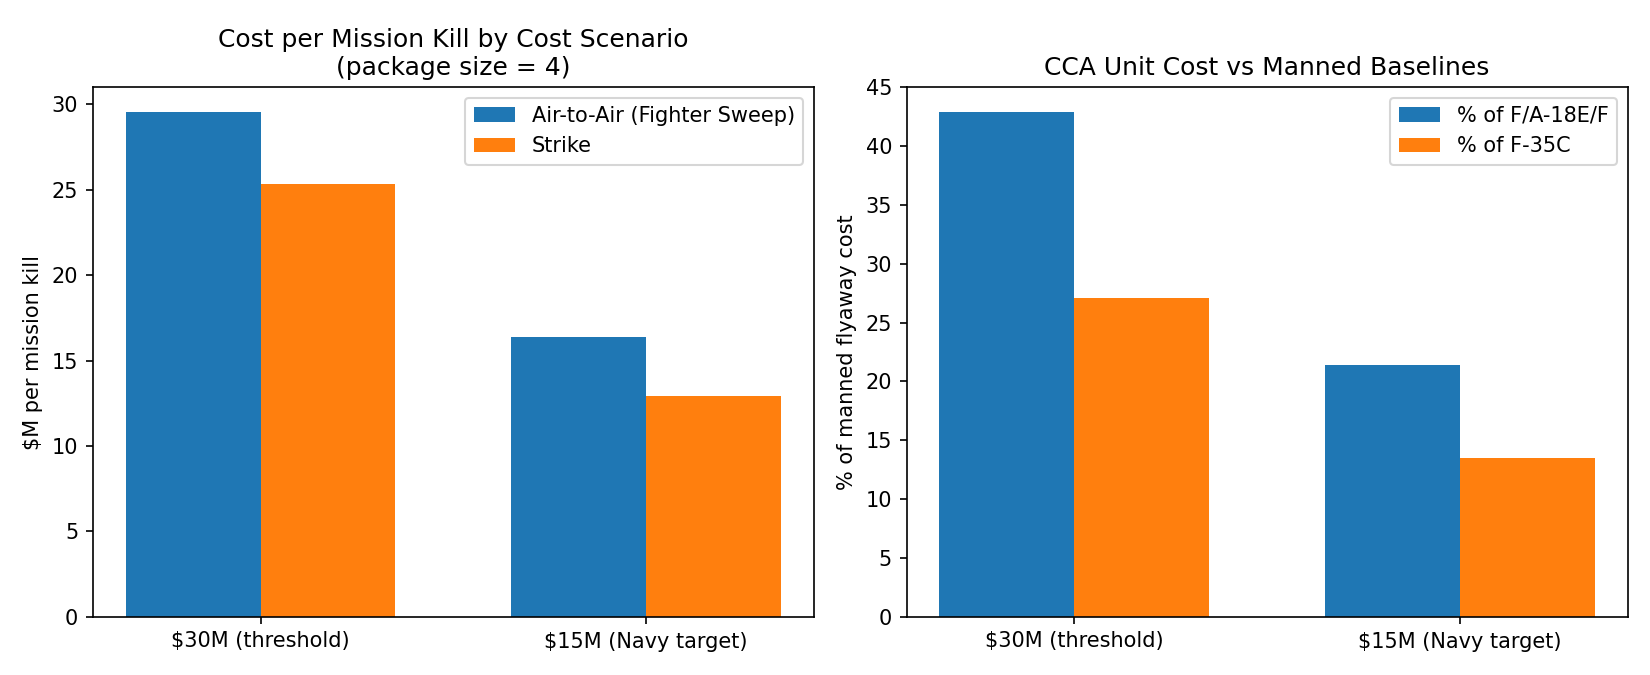
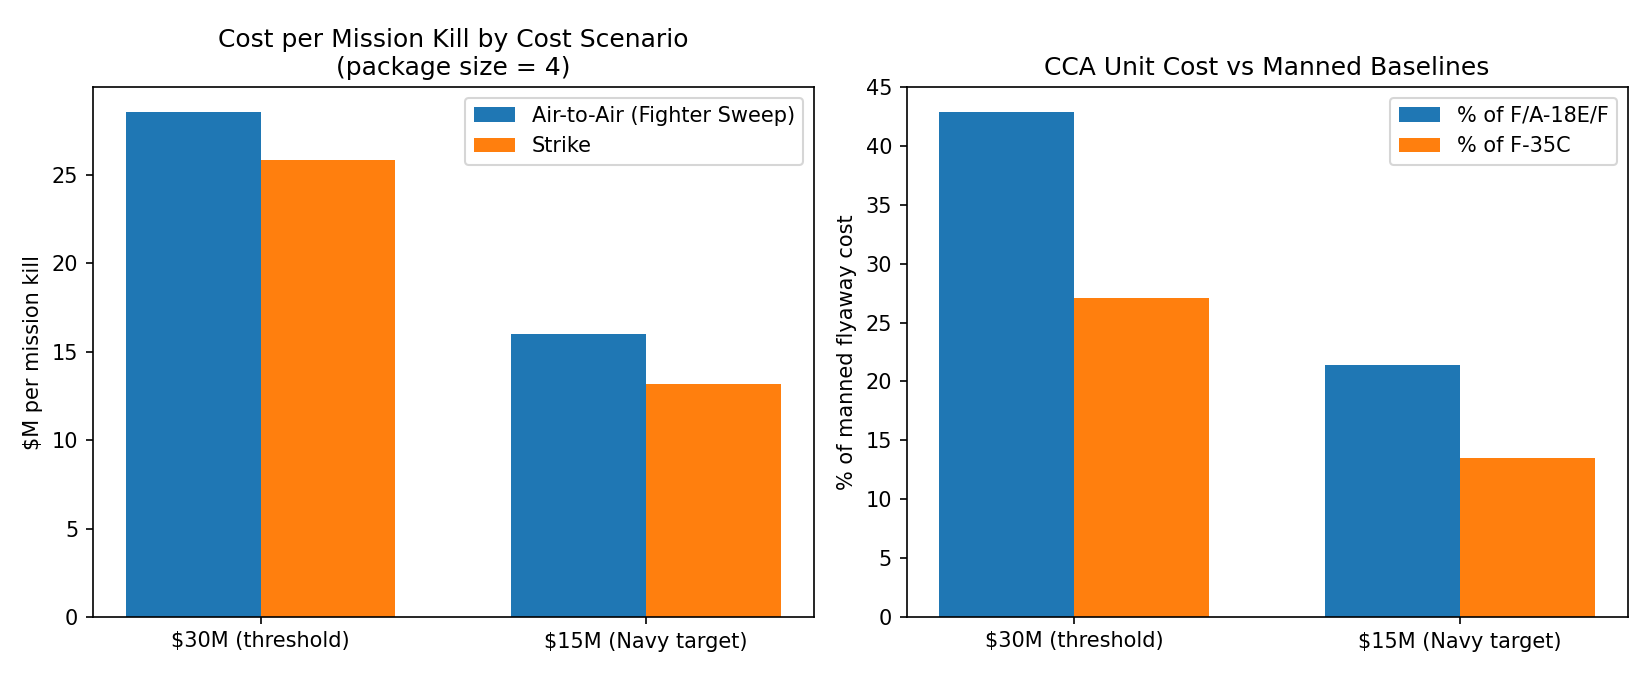
-Fixed probabilities of sensor suite/kill chain -Added cost effectiveness pillar

diff --git a/missionanalysis.py b/missionanalysis.py
@@ -10,15 +10,28 @@ Air-to-Air (Counter-Air Fighter Sweep) mission or the Strike mission,
 per the 2026-2027 Navy UG Team CCA RFP.
 
 The tool scores each mission type (and force-package variants of each)
-against the four pillars called out in the RFP / design review:
+against five pillars. NOTE: this was originally four pillars, but the
+team caught that a single "Affordability" pillar was silently conflating
+two different things -- what the CCA itself costs to buy vs. how much you
+spend fighting with it -- so it is now split into two:
 
-    1. LETHALITY       - probability of achieving a mission kill
-    2. SURVIVABILITY    - probability the CCA (and any manned wingman)
-                          returns from the sortie
-    3. SUSTAINABILITY   - sortie generation rate the air wing can sustain,
-                          given turnaround time, reliability, and attrition
-    4. AFFORDABILITY    - cost per mission kill / cost per campaign,
-                          including attrition replacement
+    1. LETHALITY         - probability of achieving a mission kill
+    2. SURVIVABILITY      - probability the CCA (and any manned wingman)
+                            returns from the sortie
+    3. SUSTAINABILITY     - sortie generation rate the air wing can sustain,
+                            given turnaround time, reliability, and attrition
+    4. AFFORDABILITY       - the CCA's own unit/procurement cost (RFP Report
+                            Requirement (j): "unit cost for a production run
+                            of 500 aircraft"). This is set by the airframe,
+                            not the mission -- same CCA, same price tag,
+                            whether it flies Air-to-Air or Strike. Expect
+                            this pillar to be a TIE between missions.
+    5. COST-EFFECTIVENESS  - cost per mission kill (weapons expended +
+                            expected attrition, divided by P(kill)). This is
+                            an operational/combat-economics metric, NOT the
+                            same thing as Affordability -- it's driven by
+                            weapon unit price and kill-chain performance, not
+                            by what the CCA costs to build.
 
 IMPORTANT — ABOUT THE NUMBERS IN THIS SCRIPT
 ----------------------------------------------
@@ -54,7 +67,7 @@ shoot logic), not a single roll.
 
 Usage
 -----
-    python3 missionanalysis.py
+    python3 cca_trade_study.py
 
 Outputs (written next to this script):
     trade_study_results.csv      - summary metrics per mission/package
@@ -70,12 +83,42 @@ import matplotlib.pyplot as plt
 from dataclasses import dataclass, field
 from typing import Dict, List
 
-RNG = np.random.default_rng(seed=30)  # reproducible runs; change/remove seed for fresh draws
+RNG = np.random.default_rng(seed=42)  # reproducible runs; change/remove seed for fresh draws
 
 
 # ===========================================================================
 # 1. RFP-DERIVED MISSION PARAMETERS  (values taken from the RFP where noted)
 # ===========================================================================
+#
+# SHARED SENSOR BASELINE (Find / Fix / Track)
+# ---------------------------------------------------------------------------
+# Both missions fly the same CCA airframe with the same avionics/sensor
+# package (sensor_weight_lb=1000, identical for both MissionProfiles below).
+# Find, Fix, and Track are stages of the kill chain that are governed by
+# that shared sensor suite, not by which weapon is loaded -- so an earlier
+# version of this script that let A2A and Strike drift to different,
+# independently-guessed Find/Fix/Track numbers was quietly (and
+# unintentionally) giving one mission credit it hadn't earned. Both
+# missions now use the SAME Find/Fix/Track baseline below.
+#
+# Only TARGET and ASSESS are allowed to differ by mission, and only because
+# there's an actual physical reason they might:
+#   - TARGET (classify/ID the correct target before weapons release): Strike
+#     is typically cued against a pre-briefed, GPS-coordinate target (often
+#     stationary) -> higher confidence ID. A2A must positively ID a
+#     maneuvering airborne contact under IFF/rules-of-engagement uncertainty
+#     at BVR range -> lower confidence ID.
+#   - ASSESS (confirm the kill after weapons release): a destroyed aircraft
+#     (fireball, breakup, radar/IR return disappearing) is usually easier to
+#     positively confirm than a struck ground target, which can be obscured
+#     by smoke/dust or survive with disputable damage -> A2A assess is
+#     modeled higher, Strike lower.
+# These are still placeholders (see header) -- the DIRECTION is defensible,
+# the exact numbers are not yet sourced to anything and should be validated
+# by Mission Ops / Avionics & Controls.
+SENSOR_P_FIND = 0.87   # NOTIONAL shared baseline -- same avionics, both missions
+SENSOR_P_FIX = 0.85    # NOTIONAL shared baseline -- same avionics, both missions
+SENSOR_P_TRACK = 0.83  # NOTIONAL shared baseline -- same avionics, both missions
 
 @dataclass
 class MissionProfile:
@@ -121,7 +164,9 @@ AIR_TO_AIR = MissionProfile(
     weapon_pk_single_shot=0.75,          # NOTIONAL BVR single-shot Pk
     sensor_weight_lb=1000,
     ingress_profile="high_altitude",
-    p_find=0.88, p_fix=0.82, p_track=0.78, p_target=0.85, p_assess=0.90,
+    p_find=SENSOR_P_FIND, p_fix=SENSOR_P_FIX, p_track=SENSOR_P_TRACK,
+    p_target=0.85,   # lower than Strike: BVR ID of a maneuvering contact under IFF/ROE uncertainty
+    p_assess=0.90,   # higher than Strike: aircraft kill (fireball/breakup) easier to positively confirm
     threat_encounters_expected=1.4,       # short, high-intensity merge
     p_loss_given_engagement=0.15,
 )
@@ -142,7 +187,9 @@ STRIKE = MissionProfile(
     weapon_pk_single_shot=0.85,           # NOTIONAL precision-guided Pk
     sensor_weight_lb=1000,
     ingress_profile="sea_level_dash",
-    p_find=0.85, p_fix=0.90, p_track=0.90, p_target=0.92, p_assess=0.85,
+    p_find=SENSOR_P_FIND, p_fix=SENSOR_P_FIX, p_track=SENSOR_P_TRACK,
+    p_target=0.92,   # higher than A2A: pre-briefed, GPS-coordinate-cued target ID (often stationary)
+    p_assess=0.85,   # lower than A2A: ground target BDA can be obscured (smoke/dust) or disputable
     threat_encounters_expected=2.2,       # two IADS-transit legs (in/out)
     p_loss_given_engagement=0.10,
 )
@@ -368,10 +415,18 @@ def run_trade_study(package_sizes: List[int] = (2, 4, 6), n_trials: int = 20_000
 
 def normalize_for_radar(results: pd.DataFrame, package_size: int,
                          cost_scenario: str = "threshold_30M") -> pd.DataFrame:
-    """Min-max normalize the 4 pillars to [0,1] (higher = better) for the
+    """Min-max normalize the 5 pillars to [0,1] (higher = better) for the
     radar chart, using a fixed package size AND cost scenario for an
-    apples-to-apples compare. Affordability and required-fleet are
-    cost-like, so they're inverted."""
+    apples-to-apples compare. Cost-like pillars (required-fleet,
+    cost-per-kill, unit cost) are inverted so higher-on-the-chart always
+    means better.
+
+    Affordability (true CCA unit/procurement cost) is mission-agnostic by
+    construction -- same airframe, same CostModel, regardless of mission --
+    so it will normalize to a TIE (1.0 for both) whenever both missions use
+    the same cost scenario, which they always do here. That's not a bug;
+    it's the point. Don't confuse it with Cost-Effectiveness, which DOES
+    vary by mission because weapon mix and kill-chain performance differ."""
     sub = results[(results["package_size"] == package_size)
                   & (results["cost_scenario"] == cost_scenario)].copy()
 
@@ -385,7 +440,8 @@ def normalize_for_radar(results: pd.DataFrame, package_size: int,
     sub["Lethality"] = norm(sub["lethality_Pkill"])
     sub["Survivability"] = norm(sub["survivability_mean_return_rate"])
     sub["Sustainability"] = norm(sub["required_fleet_30day_campaign"], invert=True)
-    sub["Affordability"] = norm(sub["cost_per_mission_kill_musd"], invert=True)
+    sub["Affordability"] = norm(sub["cca_unit_cost_musd"], invert=True)
+    sub["Cost-Effectiveness"] = norm(sub["cost_per_mission_kill_musd"], invert=True)
     return sub
 
 
@@ -394,7 +450,7 @@ def normalize_for_radar(results: pd.DataFrame, package_size: int,
 # ===========================================================================
 
 def plot_radar(sub: pd.DataFrame, out_path: str):
-    pillars = ["Lethality", "Survivability", "Sustainability", "Affordability"]
+    pillars = ["Lethality", "Survivability", "Sustainability", "Affordability", "Cost-Effectiveness"]
     angles = np.linspace(0, 2 * np.pi, len(pillars), endpoint=False).tolist()
     angles += angles[:1]
 
@@ -485,15 +541,22 @@ def plot_affordability(results: pd.DataFrame, out_path: str, package_size: int =
 #
 # THIS IS THE PART YOU EDIT.
 #
-# The four numbers below say how much your team cares about each pillar,
+# The five numbers below say how much your team cares about each pillar,
 # and they MUST add up to 1.0. Raise a number to make that pillar matter
 # more to the final decision; lower it to make it matter less. Whatever
 # number you pick, write one sentence in your report citing WHY — e.g.
-# "Affordability weighted 0.30 because RFP Report Requirement (j) makes
+# "Affordability weighted 0.20 because RFP Report Requirement (j) makes
 # unit cost mandatory, and our PRM 2 stakeholder analysis found the Navy
 # Program Office is cost-growth sensitive." A weight with no justification
 # is just an opinion; a weight tied to an RFP section or stakeholder is a
 # defensible design decision.
+#
+# NOTE: Affordability and Cost-Effectiveness are DIFFERENT pillars now.
+# Affordability = what the CCA itself costs to buy (mission-agnostic --
+# it will score as a TIE between A2A and Strike, since it's the same
+# airframe). Cost-Effectiveness = cost per mission kill in combat (weapons
+# + attrition / P(kill)) -- this DOES vary by mission and is what used to
+# be mislabeled "Affordability" in earlier versions of this script.
 #
 # Quick way to sanity-check your numbers: they should mirror how your team
 # already weighted MoM-01..MoM-06 in PRM 2 (e.g. you weighted Unit Cost at
@@ -501,11 +564,12 @@ def plot_affordability(results: pd.DataFrame, out_path: str, package_size: int =
 # here too).
 
 PILLAR_WEIGHTS = {
-    "Lethality":      0.50,   
-    "Survivability":  0.30,   
-    "Sustainability": 0.10,   
-    "Affordability":  0.10,   
-}                             
+    "Lethality":         0.30,   # <-- EDIT ME (0.0 to 1.0)
+    "Survivability":     0.10,   # <-- EDIT ME (0.0 to 1.0)
+    "Sustainability":    0.20,   # <-- EDIT ME (0.0 to 1.0)
+    "Affordability":     0.20,   # <-- EDIT ME (0.0 to 1.0)  (CCA unit/procurement cost — mission-agnostic, expect a tie)
+    "Cost-Effectiveness": 0.20,  # <-- EDIT ME (0.0 to 1.0)  (cost per mission kill — varies by mission)
+}                                 # <-- these five numbers must sum to 1.0
 
 
 def _check_weights(weights: Dict[str, float]):
@@ -545,7 +609,7 @@ def compute_weighted_scores(results: pd.DataFrame,
             sub["Weighted_Score"] = sum(sub[p] * w for p, w in weights.items())
             rows.append(sub[["mission", "mission_key", "package_size", "cost_scenario",
                               "Lethality", "Survivability", "Sustainability", "Affordability",
-                              "Weighted_Score"]])
+                              "Cost-Effectiveness", "Weighted_Score"]])
     scored = pd.concat(rows, ignore_index=True)
 
     # Mark winner + margin within each (package_size, cost_scenario) group.
@@ -571,7 +635,7 @@ def plot_weighted_decision(scored: pd.DataFrame, out_path: str,
     sub = scored[(scored["package_size"] == package_size)
                  & (scored["cost_scenario"] == cost_scenario)]
 
-    pillars = ["Lethality", "Survivability", "Sustainability", "Affordability"]
+    pillars = ["Lethality", "Survivability", "Sustainability", "Affordability", "Cost-Effectiveness"]
     fig, ax = plt.subplots(figsize=(7, 5))
 
     missions = sub["mission"].tolist()
